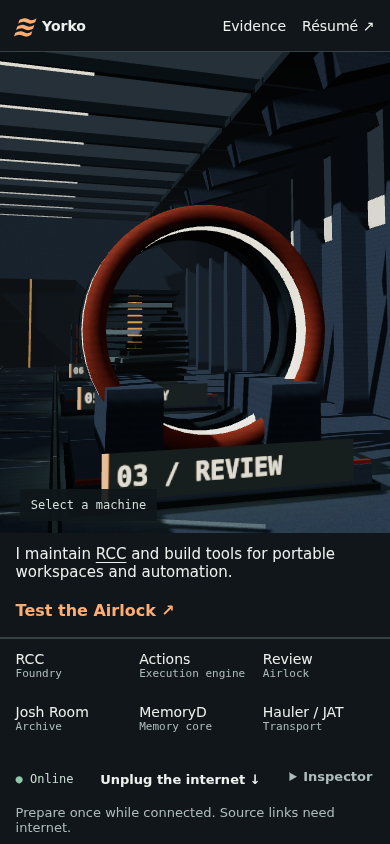
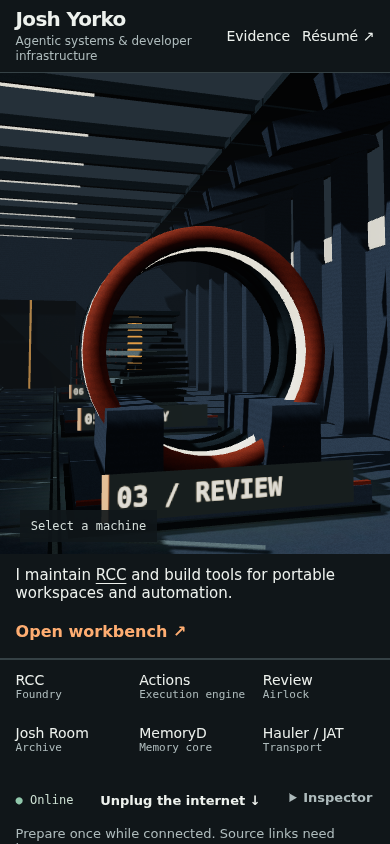
fix(portfolio): lead with Josh Yorko across the landing view

diff --git a/machine-room/src/style.css b/machine-room/src/style.css
@@ -7,3 +7,6 @@ footer{padding-block:12px}.footline{justify-content:flex-start}.footline button,
 @media(max-height:480px) and (orientation:landscape){.hall,#scene{height:56svh;min-height:190px}.identity h1{font-size:42px}}
 @media(max-width:660px){#directory{display:grid;grid-template-columns:repeat(3,minmax(0,1fr));gap:0 12px}#directory a{min-height:48px;font-size:14px}#directory small{font-size:11px}.footline{justify-content:space-between;gap:4px}.identity{background:linear-gradient(90deg,#101619b3,transparent);padding-right:16px}.live+.identity{visibility:hidden}}
 .working .identity,.live+.identity{display:block;visibility:visible;position:absolute;width:1px;height:1px;overflow:hidden;clip-path:inset(50%)}
+
+header:has(.byline){height:auto;min-height:62px;gap:12px;padding-block:8px}.byline h1{font:650 20px/1.1 system-ui;letter-spacing:-.035em;margin:0}.byline p{font:12px/1.25 system-ui;color:var(--dim);margin:4px 0 0}header nav{flex-shrink:0}
+@media(max-width:660px){.byline p{max-width:25ch}header nav{gap:12px}}
